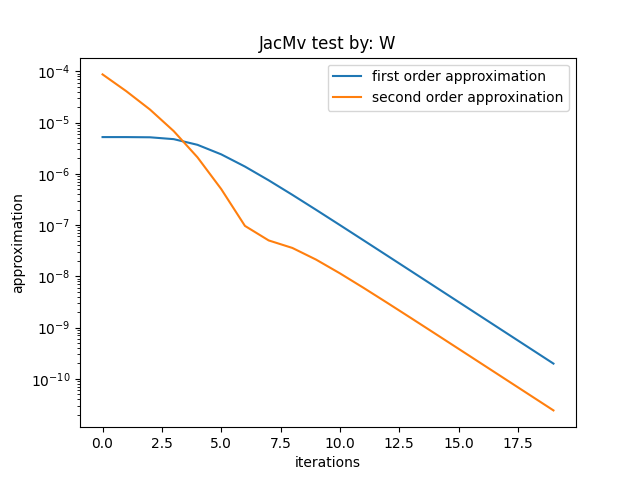
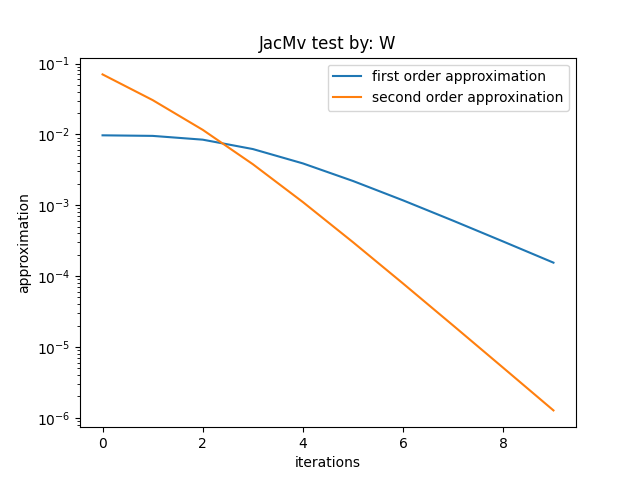
all individual tests work, ful nn grad test doesnt

diff --git a/jac_test.py b/jac_test.py
@@ -1,0 +1,110 @@
+import numpy as np
+import matplotlib.pyplot as plt
+import util
+
+
+activation_function = np.tanh
+output_layer_function = util.soft_max_loss
+activation_function_derivative = util.tanh_derivative
+
+def f_standart_layer(X, W,b):
+    # ones_row = np.ones((1, X.shape[1]))
+    # X_with_ones = np.vstack((X, ones_row))
+    print(W @ X.flatten() + b.flatten())
+    return activation_function(W @ X+ b)
+
+
+
+def JacMV_f_by_W_with_b(x, W, v):  # only for x of shape: (d, 1)
+    ones_row = np.ones((1, x.shape[1]))
+    x_with_ones = np.vstack((x, ones_row))
+    Z = activation_function_derivative(
+        W @ x_with_ones.flatten())
+    jac_by_b = np.diag(Z)
+    jac_by_W = jac_by_b @ np.kron(x.T, np.eye(W.shape[0]))
+    jac_by_theta = np.hstack((jac_by_W, jac_by_b))
+    return jac_by_theta @ v
+
+def JacMV_f_by_W(x, W, b, v):  # only for x of shape: (d, 1)
+    # ones_row = np.ones((1, x.shape[1]))
+    # x_with_ones = np.vstack((x, ones_row))
+    # print("x with ones shape ",x_with_ones.shape)
+    Z = activation_function_derivative(
+        W @ x + b)
+    print("Z shape ",Z.shape)
+    jac_by_W = np.diag(Z.flatten()) @ np.kron(x.T, np.eye(W.shape[0]))
+    print("jac shape ",jac_by_W.shape)
+    return jac_by_W @ v
+
+def JacMV_f_by_b(x, W, b, v):  # only for x of shape: (d, 1)
+    # ones_row = np.ones((1, x.shape[1]))
+    # x_with_ones = np.vstack((x, ones_row))
+    # print("x with ones shape ",x_with_ones.shape)
+    print("x shape ",x.shape)
+    print("x flatten shape ",x.flatten().shape)
+    print("W@x shape ",(W @ x.flatten()).shape)
+    Z = activation_function_derivative(
+        W @ x + b)
+    print("Z shape ",Z.shape)
+    jac_by_b = np.diag(Z.flatten())
+    print("jac shape ",jac_by_b.shape)
+    return jac_by_b @ v
+
+
+def JacMv_test(F, JacMv, X_shape, W_shape, by='W', iterations=10):
+    X_d, X_m = X_shape
+    W_nlabels, W_d = W_shape
+    X = np.random.rand(X_d, X_m)
+    W = np.random.rand(W_nlabels, W_d)
+    b = np.random.rand(W_nlabels, 1)
+    if by == 'X':
+        d0 = np.random.rand(X_d, X_m)
+    elif by == 'W':
+        d0 = np.random.rand(W_nlabels, W_d)
+    else: # by == 'b'
+        d0 = np.random.rand(W_nlabels, 1)
+    eps0 = 0.5
+    F0 = F(X, W, b)
+    y1 = []
+    y2 = []
+    for i in range(iterations):
+        epsilon = eps0 ** i
+        d = epsilon * d0
+        if by == 'X':
+            F1 = F(X + d, W,b)
+            F2 = JacMv(X, W,b, d)
+        elif by == 'W':
+            F1 = F(X, W + d,b)
+            print("F1 shape ",F1.shape)
+            # reorganizing d to match the jacboian multiplication:
+            F2 = JacMv(X, W,b, d.flatten('F')).reshape(F1.shape)
+            print("F2 shape ",F2.shape)
+        else: # by == 'b'
+            F1 = F(X, W ,b+d)
+            F2 = JacMv(X, W,b, d)
+        # F1 - F0
+        # F1 - F0 - eps * d.T Grad(x)
+        y1.append(np.linalg.norm(F1 - F0))
+        y2.append(np.linalg.norm(F1 - F0 - F2))
+    xs = np.arange(iterations)
+    plt.plot(xs, y1, label="first order approximation")
+    plt.plot(xs, y2, label="second order approxination")
+    plt.yscale('log')
+    plt.xlabel('iterations')
+    plt.ylabel('approximation')
+    plt.title('JacMv test by: ' + by)
+    plt.legend()
+    plt.show()
+
+
+def JacMV_f_by_x(x, W,b, v):  # only for x of shape: (d, 1)
+
+    return np.diag(activation_function_derivative
+                   (W@x + b).flatten()) @ (W @ v)
+
+# JacMv_test(f_standart_layer, JacMV_f_by_W, (3, 1), (4, 3), by='W')
+# JacMv_test(f_standart_layer, JacMV_f_by_W,(10, 1), (3, 11), by='W')
+# print(JacMV_f_by_b(np.array([[1], [2], [3]]), np.array([[0.1, 0.2, 0.3], [0.4, 0.5, 0.6]]), np.array([[2],[1]]), np.array([[1], [2]])))
+# JacMv_test(f_standart_layer, JacMV_f_by_b, (3, 1), (4, 3), by='b')
+JacMv_test(f_standart_layer, JacMV_f_by_W, (3, 1), (4, 3), by='W')
+# print(f_standart_layer(np.array([[1], [2], [3]]), np.array([[1, 0, 0], [0, 1, 0],[0,0,1]]), np.array([[2],[1],[0]])))

diff --git a/util.py b/util.py
@@ -118,6 +118,7 @@ def soft_max_regression_grad_by_x(X, W, C):
 def f_standart_layer(X, W):
     ones_row = np.ones((1, X.shape[1]))
     X_with_ones = np.vstack((X, ones_row))
+    print(W @ X_with_ones)
     return activation_function(W @ X_with_ones)
 
 
@@ -191,6 +192,7 @@ def gradient_test(F, grad_F, X_shape, W_shape, C_shape, by='X', iter=20):
         # F1 - F0 - eps * d.T Grad(x)
         y1.append(np.abs(F1 - F0))
         y2.append(np.abs(F1 - F0 - F2))
+        print(f"iteration {i} F2: {F2}")
     xs = np.arange(0, iter)
     plt.plot(xs, y1, label="first order approximation")
     plt.plot(xs, y2, label="second order approxination")
@@ -223,11 +225,13 @@ def JacMv_test(F, JacMv, X_shape, W_shape, by='W', iterations=10):
             F2 = JacMv(X, W, d)
         elif by == 'W':
             F1 = F(X, W + d)
+            print("F1 shape ", F1.shape)
             d_w = d[:, :-1]
             d_b = d[:, -1]
             # reorganizing d to match the jacboian multiplication:
             d = np.append(d_w.flatten(order='F'), d_b.flatten())
-            F2 = JacMv(X, W, d)
+            F2 = JacMv(X, W, d).reshape(F1.shape)
+            print("F2 shape ", F2.shape)
         # F1 - F0
         # F1 - F0 - eps * d.T Grad(x)
         y1.append(np.linalg.norm(F1 - F0))
@@ -256,7 +260,9 @@ def JacTMV_by_W_test(x_shape, W_shape, u_d, v_d):
     W = np.random.rand(W_shape[0], W_shape[1])
     u = np.random.rand(u_d, 1)
     v = np.random.rand(v_d)
-    return abs(u.T @ JacMV_f_by_W(x, W, v) - v.T @ (JacMV_f_by_theta_transpose(x, W, u))) < MACHINE_EPS_FL32
+    uT_v = u.T @ JacMV_f_by_W(x, W, v)
+    vT_u = (v.T @ JacMV_f_by_theta_transpose(x, W, u).flatten('F'))
+    return abs(uT_v - vT_u) < MACHINE_EPS_FL32
 
 
 def SGD_minimizer(loss, loss_grad, x0, x_train, y_train, mini_batch_size=10, plot=False, learning_rate=0.1, iterations=100, tolerance=1e-3, title="SGD minimzation"):
@@ -329,13 +335,15 @@ def test_soft_max_loss():
 
 if __name__ == "__main__":
     # test_soft_max_loss()
-    # gradient_test(soft_max_loss, soft_max_regression_grad_by_x,
-    #               (30, 100), (10, 31), (10, 100), by='X')
-    # gradient_test(soft_max_loss, soft_max_regression_grad_by_theta,
-    #               (30, 100), (10, 31), (10, 100), by='W')
-    # JacMv_test(f_standart_layer, JacMV_f_by_x,
-    #            (10, 1), (5, 11), by='X')
+    gradient_test(soft_max_loss, soft_max_regression_grad_by_x,
+                  (30, 100), (10, 31), (10, 100), by='X')
+    gradient_test(soft_max_loss, soft_max_regression_grad_by_theta,
+                  (30, 100), (10, 31), (10, 100), by='W')
+    JacMv_test(f_standart_layer, JacMV_f_by_x,
+               (10, 1), (5, 11), by='X')
     JacMv_test(f_standart_layer, JacMV_f_by_W,
                (10, 1), (3, 11), by='W')
-    # print(JacTMV_by_x_test((30, 1), (10, 31), 10, 30))
-    # print(JacTMV_by_W_test((30, 1), (10, 31), 10, 310))
+    print(JacTMV_by_x_test((30, 1), (10, 31), 10, 30))
+    print(JacTMV_by_W_test((30, 1), (10, 31), 10, 310))
+
+    # print(f_standart_layer(np.array([[1], [2]]), np.array([[1, 0, 1], [0, 1, 0]])))

diff --git a/standard_neural_net.py b/standard_neural_net.py
@@ -29,7 +29,7 @@ class ff_standard_neural_network:
         self.activations = []
 
     def feed_forward(self, X, C, Ws=None):
-        if not Ws:
+        if Ws == None:
             Ws = self.weights
         self.activations = [X]
         # x is a batch of inputs
@@ -87,6 +87,7 @@ class ff_standard_neural_network:
             self.activations[-2], self.weights[-1], C)
 
         for X, weights in reversed(list(zip(self.activations[:-2], self.weights[:-1]))):
+            print(f"back_prop_grad shape: {back_prop_grad.shape}")
             grad = util.JacMV_f_by_theta_transpose(X, weights, back_prop_grad)
             grads_Ws.insert(0, grad)
             back_prop_grad = util.JacMV_f_by_x_transpose(
@@ -117,9 +118,11 @@ class ff_standard_neural_network:
             d = [epsilon * W_i for W_i in d0]
             W_plus_d = [self.weights[i] + d[i]
                         for i in range(len(self.weights))]
-            F1 = self.feed_forward(X, Ws=W_plus_d, C=C)
-            F2 = np.sum([np.dot((d[j]).flatten(), (g0[j]).flatten())
+            F1 = self.feed_forward(X, C , W_plus_d)
+            print(f"iteration {i} F1: {F1}")
+            F2 = np.sum([np.dot((g0[j]).flatten(),(d[j]).flatten())
                          for j in range(len(d))])
+            print(f"iteration {i} F2: {F2}")
             y1.append(np.abs(F1 - F0))
             y2.append(np.abs(F1 - F0 - F2))
         xs = np.arange(iterations)
@@ -166,5 +169,5 @@ if __name__ == "__main__":
     # print([w.shape for w in network.weights])
 
     # network = ff_standard_neural_network(5, [20, 15], 3)
-    network = ff_standard_neural_network(5, [], 3)
-    network.gradient_test_nn(100)
+    network = ff_standard_neural_network(5, [2, 5], 3)
+    network.gradient_test_nn(30)
